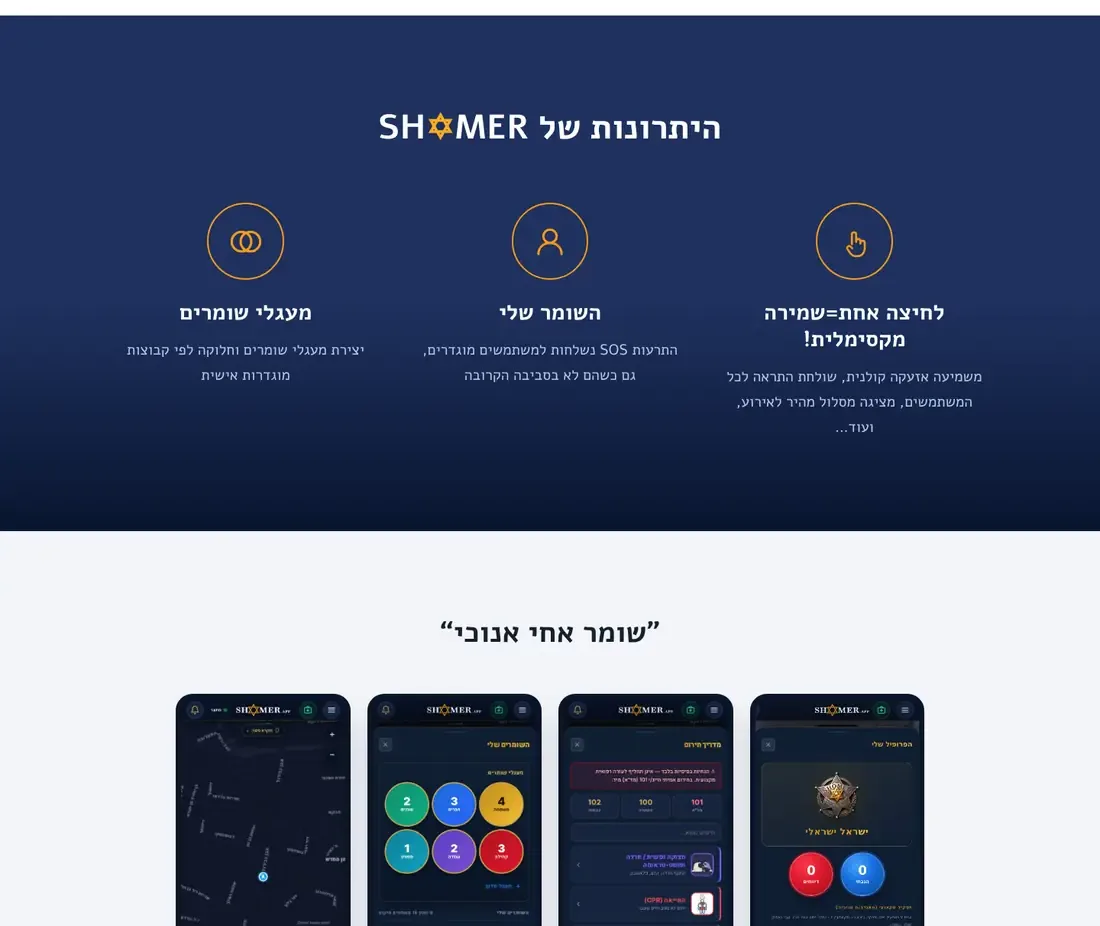
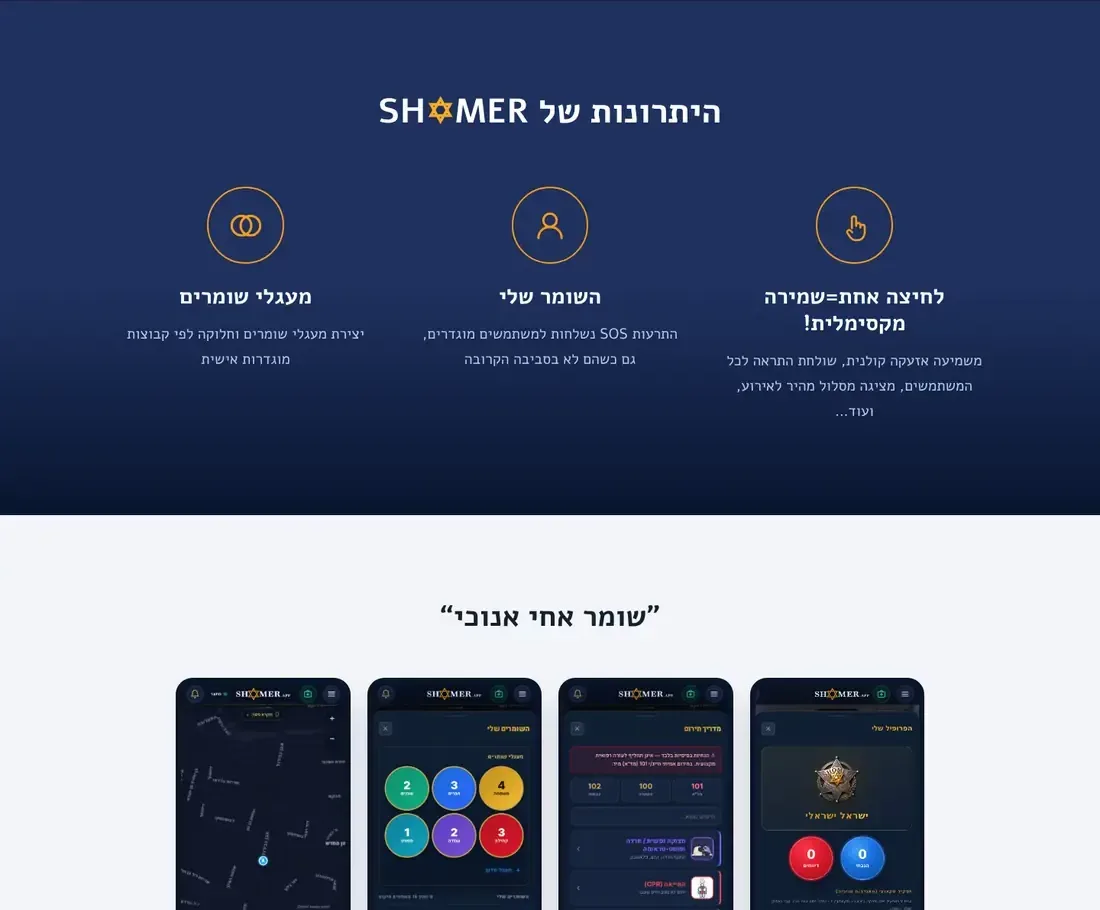
Trim white strip and fix mobile phone frame on SH✡MER page
Claude-Session: https://claude.ai/code/session_01NYMEjb3suz5Xdw8cPuvfsd

diff --git a/work/shomer.html b/work/shomer.html
@@ -283,7 +283,7 @@ footer img{height:20px;width:auto}
 .dash{margin-top:56px}
 .dash .win{aspect-ratio:1100/687}
 .tag{display:inline-block;font:700 11px var(--body);letter-spacing:.08em;text-transform:uppercase;color:var(--p3);border:1px solid rgba(182,194,214,.4);border-radius:999px;padding:3px 10px;margin-left:6px;vertical-align:middle}
-@media(max-width:860px){.sgrid{grid-template-columns:1fr}.sgrid .mwrap{max-width:240px;margin:0 auto}}
+@media(max-width:860px){.sgrid{grid-template-columns:1fr}.sgrid .mwrap{width:100%;max-width:240px;margin:0 auto}}
 
 /* components sheet */
 .comp{display:grid;grid-template-columns:repeat(3,1fr);gap:22px}
@@ -437,8 +437,8 @@ footer img{height:20px;width:auto}
  <div class="wrap">
   <div class="rv"><div class="eyebrow">Website &amp; dashboard</div><h2 id="w-h">The front door, and <span class="g">the command room.</span></h2><p class="lede">The public site at shomer-app.co.il, designed RTL-first in Hebrew, and SH&#10017;MER Command, the dashboard communities and councils use to see their area. Hover or tap a frame to scroll it.</p></div>
   <div class="sgrid">
-   <figure class="rv"><div class="browser scroller" tabindex="0"><div class="chrome"><i></i><i></i><i></i><span>shomer-app.co.il</span></div><div class="win"><img src="../assets/work/shomer/site-desktop.webp?v=2" alt="The SH✡MER website on desktop: benefits and app screens, in Hebrew" width="1100" height="926" loading="lazy"></div></div><figcaption class="fcap"><b>Website, desktop.</b> Real page, captured 5 Nov 2026.</figcaption></figure>
-   <figure class="rv mwrap"><div class="mphone scroller" tabindex="0"><div class="win"><img src="../assets/work/shomer/site-mobile.webp?v=2" alt="The SH✡MER website on a phone: benefits section" width="560" height="1076" loading="lazy"></div></div><figcaption class="fcap"><b>Website, mobile.</b></figcaption></figure>
+   <figure class="rv"><div class="browser scroller" tabindex="0"><div class="chrome"><i></i><i></i><i></i><span>shomer-app.co.il</span></div><div class="win"><img src="../assets/work/shomer/site-desktop.webp?v=3" alt="The SH✡MER website on desktop: benefits and app screens, in Hebrew" width="1100" height="910" loading="lazy"></div></div><figcaption class="fcap"><b>Website, desktop.</b> Real page, captured 5 Nov 2026.</figcaption></figure>
+   <figure class="rv mwrap"><div class="mphone scroller" tabindex="0"><div class="win"><img src="../assets/work/shomer/site-mobile.webp?v=3" alt="The SH✡MER website on a phone: benefits section" width="560" height="1062" loading="lazy"></div></div><figcaption class="fcap"><b>Website, mobile.</b></figcaption></figure>
   </div>
   <figure class="dash rv"><div class="browser scroller" tabindex="0"><div class="chrome"><i></i><i></i><i></i><span>SH&#10017;MER Command &middot; demo</span></div><div class="win"><img src="../assets/work/shomer/command-desktop.webp" alt="SH✡MER Command dashboard demo: city overview, live events board, emergency card, crime breakdown and patrol map, in Hebrew" width="1100" height="687" loading="lazy"></div></div><figcaption class="fcap"><b>SH&#10017;MER Command, the community dashboard.</b> <span class="tag">Demo &middot; sample data</span> Events shown are examples, as the dashboard itself labels them.</figcaption></figure>
  </div>
